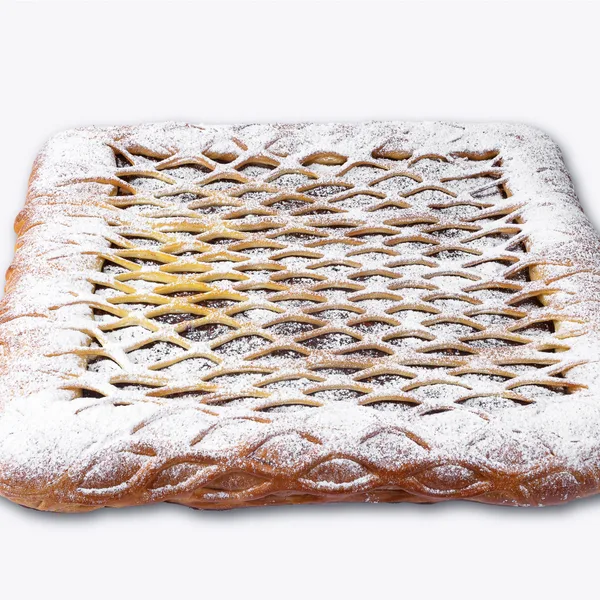
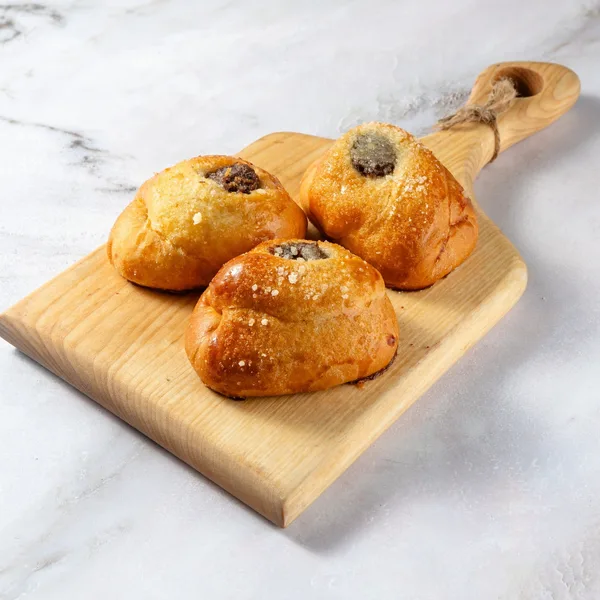
Fix bun with dryfruit image mapping

diff --git a/update_ready_photos.js b/update_ready_photos.js
@@ -30,7 +30,7 @@ const MAP_OVERRIDE = {
   'миренговый рулет': ['Миренговый рулет.webp'],
   'мишка на севере': ['Торт Мишка на севере.webp'],
   'морковный торт': ['dessert_carrot.webp', 'Морковный торт.webp'],
-  'пирог с сухофруктами': ['pie_dryfruit.webp', 'pastry_bun_dryfruit.webp'],
+  'пирог с сухофруктами': ['pie_dryfruit.webp'],
   'пирог с творогом со сгущенкой': ['pie_cottage_condensed.webp'],
   'пирог с творогом': ['pie_curd.webp'],
   'пирожки с картошкой': ['Пирожки с картошкой.webp'],
